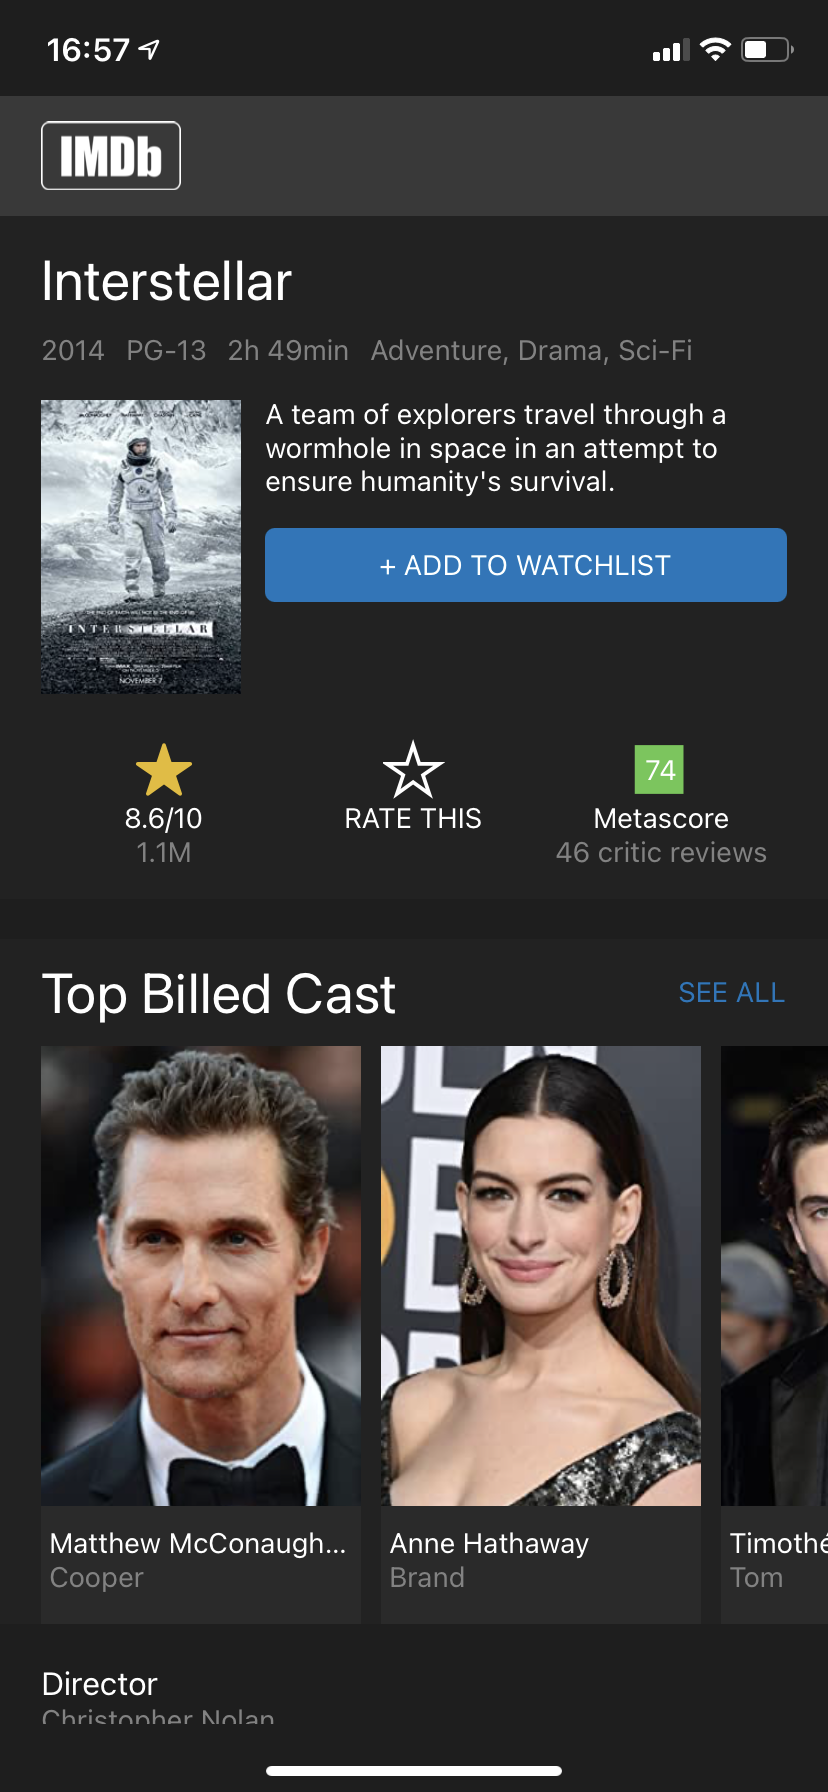
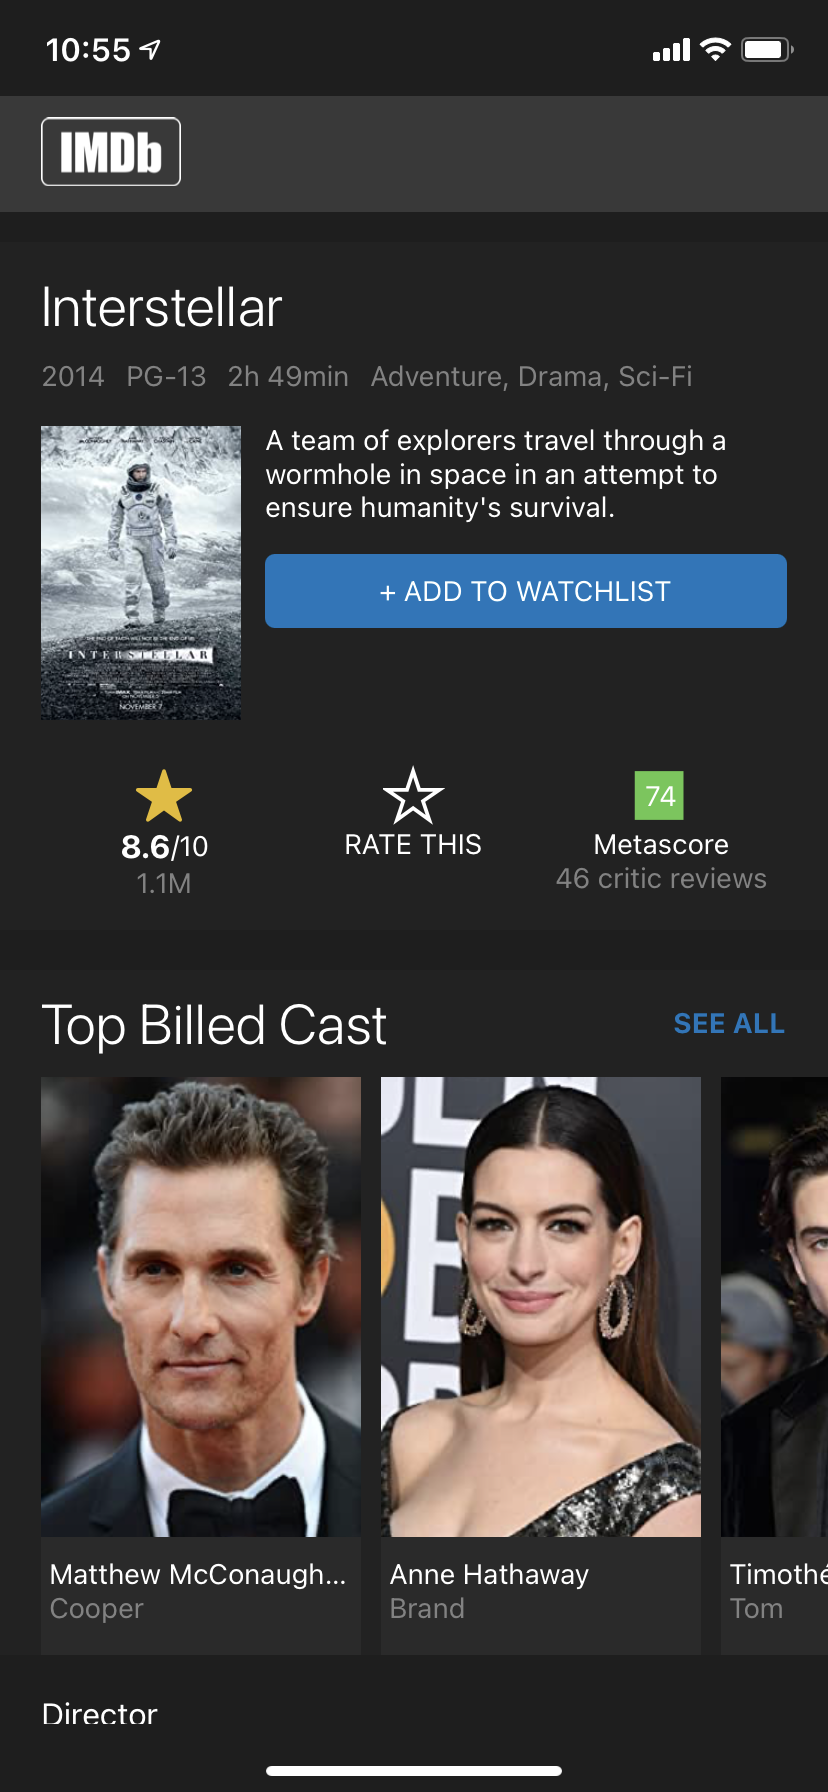
colors file

diff --git a/App.js b/App.js
@@ -1,4 +1,4 @@
-// Imports
+// React & React Native - Imports
 import React from "react";
 import {
   SafeAreaView,
@@ -11,11 +11,24 @@ import {
   StyleSheet,
 } from "react-native";
 
-// Packages
+// Packages from Expo
 import { StatusBar } from "expo-status-bar";
 import Constants from "expo-constants";
 // console.log(Constants.statusBarHeight);
 import { Ionicons } from "@expo/vector-icons";
+
+// Colors - Imports
+import colors from "./assets/colors";
+const {
+  btnBlue,
+  greyText,
+  bgGrey,
+  viewGrey1,
+  viewGrey2,
+  cardGrey,
+  iconYellow,
+  iconGreen,
+} = colors;
 
 const App = () => {
   return (
@@ -33,7 +46,7 @@ const App = () => {
           </View>
         </View>
 
-        {/* Main view 1 */}
+        {/* Main view 1 - Movie details */}
         <View style={[styles.view, styles.view1]}>
           <View style={styles.wrapper}>
             <Text style={[styles.h2, styles.whiteText]}>Interstellar</Text>
@@ -77,8 +90,14 @@ const App = () => {
 
             <View style={styles.bloc3}>
               <View style={styles.icon1Bloc}>
-                <Ionicons size={30} color="#E7BA1E" name="ios-star" />
-                <Text style={styles.whiteText}>8.6/10</Text>
+                <Ionicons size={30} color={iconYellow} name="ios-star" />
+                <View style={styles.rateText}>
+                  <Text style={[styles.whiteText, styles.rateTextBold]}>
+                    8.6
+                  </Text>
+                  <Text style={styles.whiteText}>/10</Text>
+                </View>
+
                 <Text style={styles.greyText}>1.1M</Text>
               </View>
               <View style={styles.icon2Bloc}>
@@ -90,7 +109,7 @@ const App = () => {
                   size={30}
                   color="red"
                   name="square-sharp"
-                  color="#62C84E"
+                  color={iconGreen}
                 />
                 <Text style={styles.iconAbsolute}>74</Text>
                 <Text style={styles.whiteText}>Metascore</Text>
@@ -100,7 +119,7 @@ const App = () => {
           </View>
         </View>
 
-        {/* Main view 2 */}
+        {/* Main view 2 - Actors cards */}
         <View style={[styles.view, styles.view2]}>
           <View style={styles.wrapper}>
             <View style={styles.seeAll}>
@@ -167,7 +186,7 @@ const App = () => {
           </View>
         </View>
 
-        {/* Main view 3 */}
+        {/* Main view 3 - Movie's direction */}
         <View style={styles.view3}>
           <View style={styles.wrapper}>
             <View style={styles.director}>
@@ -193,7 +212,7 @@ export default App;
 const styles = StyleSheet.create({
   // Global rules
   screen: {
-    backgroundColor: "#1E1E1E",
+    backgroundColor: bgGrey,
     flex: 1,
   },
   scrollView: {
@@ -206,26 +225,28 @@ const styles = StyleSheet.create({
     marginRight: "auto",
     width: "90%",
   },
-  // Text color
+  // ----- Text color
   greyText: {
-    color: "#828282",
+    color: greyText,
   },
   whiteText: {
     color: "white",
   },
   blueText: {
-    color: "#0577BD",
+    color: btnBlue,
+    fontWeight: "bold",
   },
   // ----- Titles
   h2: {
     fontSize: 28,
+    fontWeight: "300",
   },
   h3: {
     fontSize: 16,
   },
   // ----- Buttons
   btnBlue: {
-    backgroundColor: "#0577BD",
+    backgroundColor: btnBlue,
     padding: 10,
     alignItems: "center",
     borderRadius: 5,
@@ -233,10 +254,11 @@ const styles = StyleSheet.create({
 
   // Header
   header: {
-    backgroundColor: "#393939",
+    backgroundColor: viewGrey2,
     width: "100%",
     height: 60,
     justifyContent: "center",
+    marginBottom: 15,
   },
   imgLogo: {
     height: 60,
@@ -245,7 +267,7 @@ const styles = StyleSheet.create({
 
   // Views
   view: {
-    backgroundColor: "#222222",
+    backgroundColor: viewGrey1,
     width: "100%",
     // height: 300,
   },
@@ -324,7 +346,7 @@ const styles = StyleSheet.create({
     height: 230,
   },
   card: {
-    backgroundColor: "#2A2A2A",
+    backgroundColor: cardGrey,
     marginRight: 10,
     paddingBottom: 15,
     alignItems: "center",
@@ -332,6 +354,14 @@ const styles = StyleSheet.create({
   cardDetails: {
     paddingTop: 10,
     width: "95%",
+  },
+  rateText: {
+    flexDirection: "row",
+    alignItems: "center",
+  },
+  rateTextBold: {
+    fontWeight: "bold",
+    fontSize: 16,
   },
 
   // Main view 3 - Direction

diff --git a/assets/colors.js b/assets/colors.js
@@ -1,0 +1,12 @@
+const colors = {
+  btnBlue: "#0577BD",
+  greyText: "#828282",
+  bgGrey: "#1E1E1E",
+  viewGrey1: "#222222",
+  viewGrey2: "#393939",
+  cardGrey: "#2A2A2A",
+  iconYellow: "#E7BA1E",
+  iconGreen: "#62C84E",
+};
+
+export default colors;

diff --git a/README.md b/README.md
@@ -1,13 +1,13 @@
 # interstellar-LeReacteur
 
 🗓 May 2021  
-🪄 First app in React Native 🤗!
+🪄 First project in React Native 🤗!
 
 ## Welcome in my IMDb Interstellar school project
 
 ### My work?
 
-To code a simple mobile app in React Native (first time). The main difficulty is how CSS works compared to CSS in React project.
+To code a simple mobile app (one screen) in React Native (first time 💪🏻). The main difficulty is how CSS works compared to "real" CSS in web projects.
 
 ![Interstellar IMDb page (iOs)](assets/interstellar-mobile.png)
 
